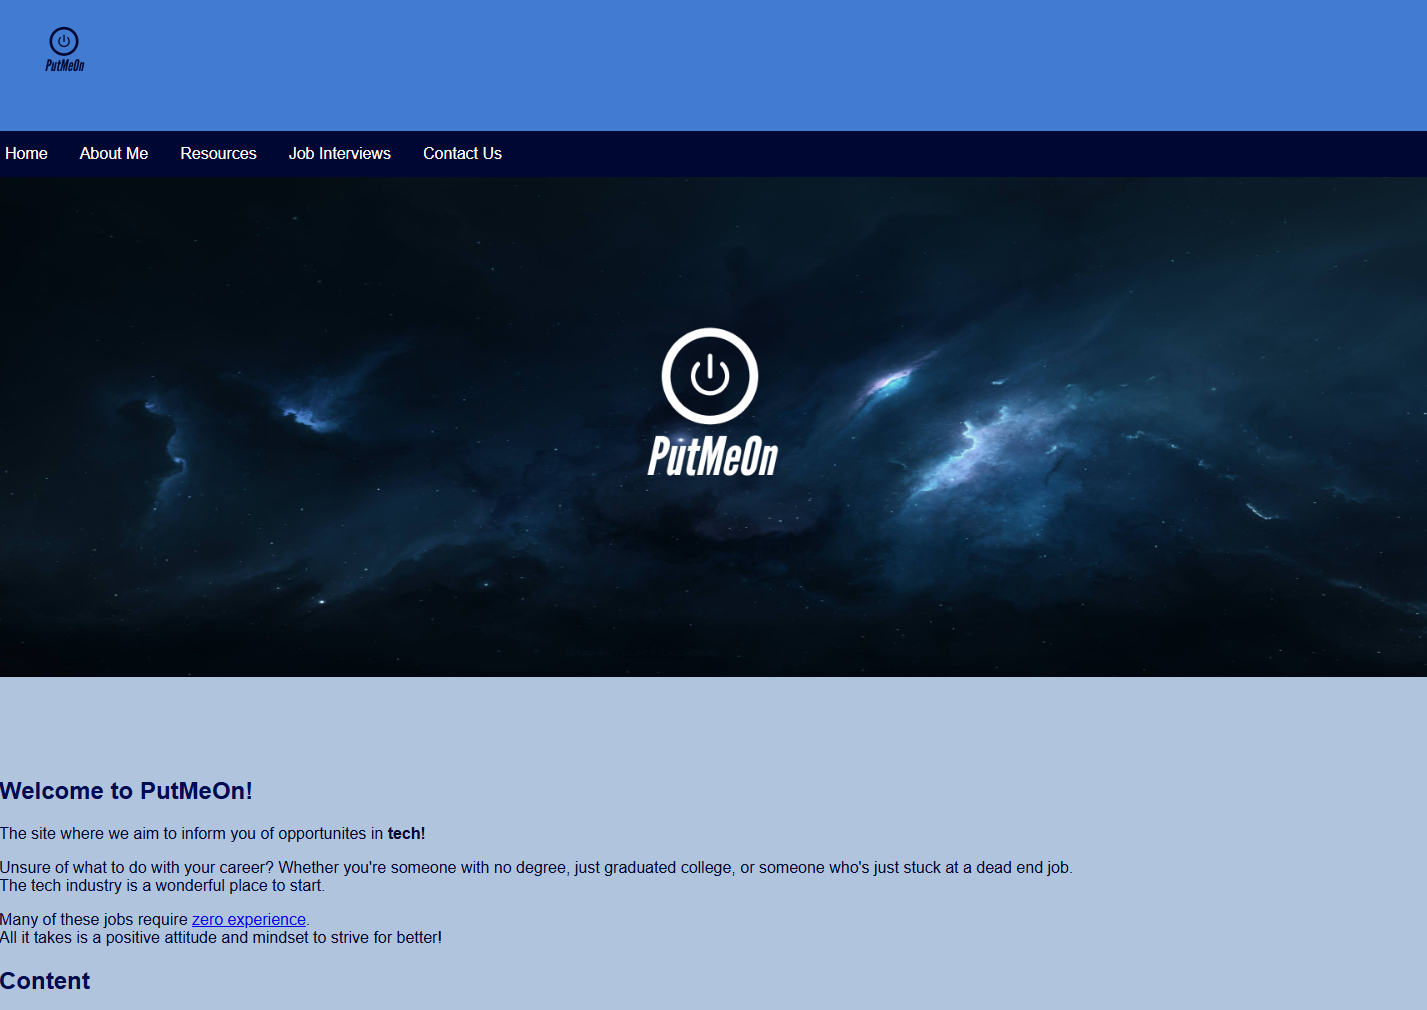
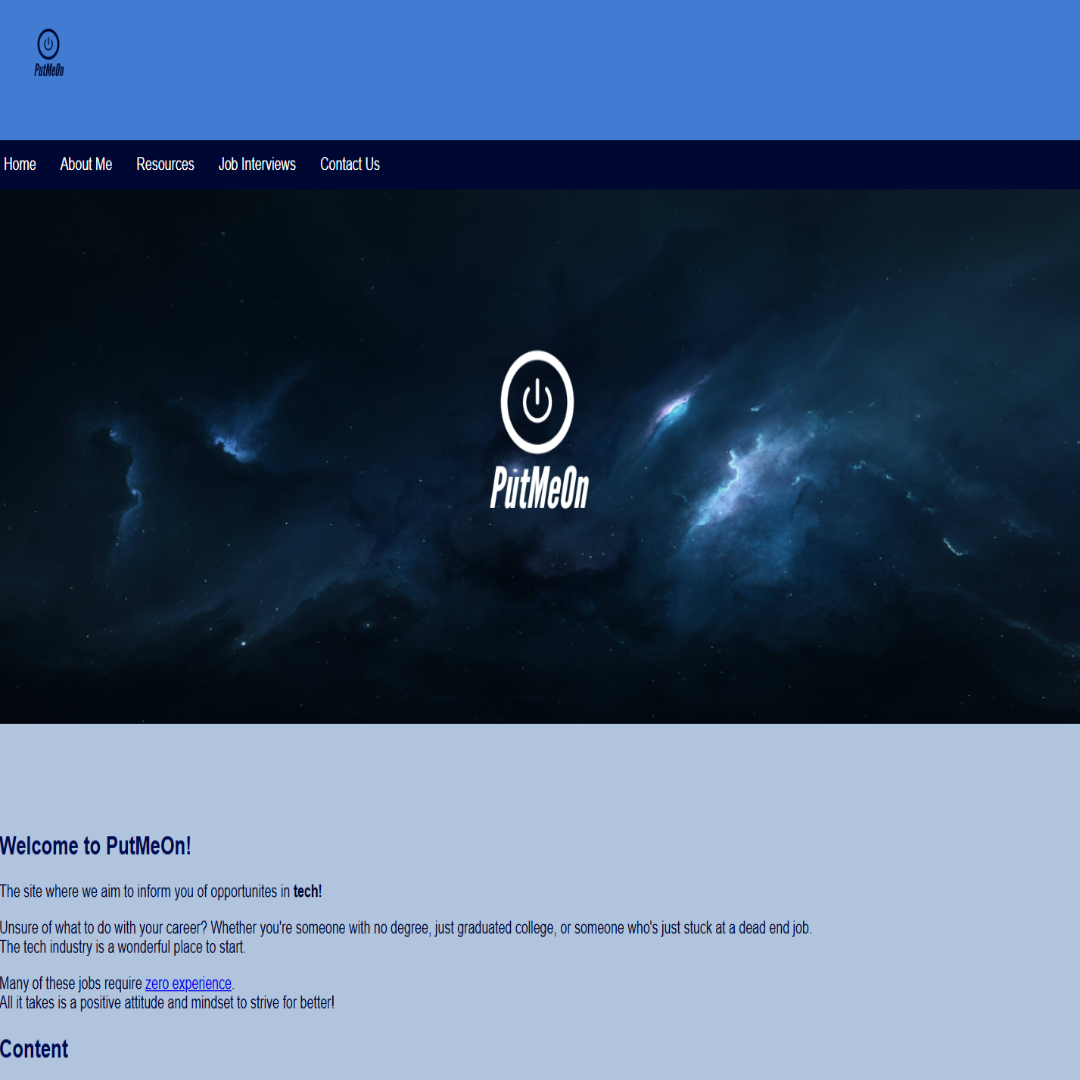
Updated index.html
Updated the aspect ratio of the images. Changed the title name of the projects.

diff --git a/index.html b/index.html
@@ -200,17 +200,17 @@
                 <div class="article-container">
                     <img src="./assets/project-1.png" alt="Project 1" class="project-img">
                 </div>
-                <h2 class="experience-sub-title project-title">Project One</h2>
+                <h2 class="experience-sub-title project-title">Portfolio Project</h2>
                 <div class="btn-container">
-                    <button class="btn btn-color-2 project-btn" onclick="location.href=https://github.com/">Github</button>
-                    <button class="btn btn-color-2 project-btn" onclick="location.href=https://github.com">Live Demo</button>
+                    <button class="btn btn-color-2 project-btn" onclick="location.href='https://github.com/shaqgarrett/html-css-js-portfolio'">Github</button>
+                    <button class="btn btn-color-2 project-btn" onclick="location.href='https://shaqgarrett.netlify.app'">Live Demo</button>
                 </div>
             </div>
             <div class="details-container color-container">
                 <div class="article-container">
                     <img src="./assets/project-2.png" alt="Project 2" class="project-img">
                 </div>
-                <h2 class="experience-sub-title project-title">Project Two</h2>
+                <h2 class="experience-sub-title project-title">PutMeOn Site</h2>
                 <div class="btn-container">
                     <button class="btn btn-color-2 project-btn" onclick="location.href='https://github.com/shaqgarrett/put-me-on-site'">Github</button>
                     <button class="btn btn-color-2 project-btn" onclick="location.href='https://putmeon1.netlify.app'">Live Demo</button>
